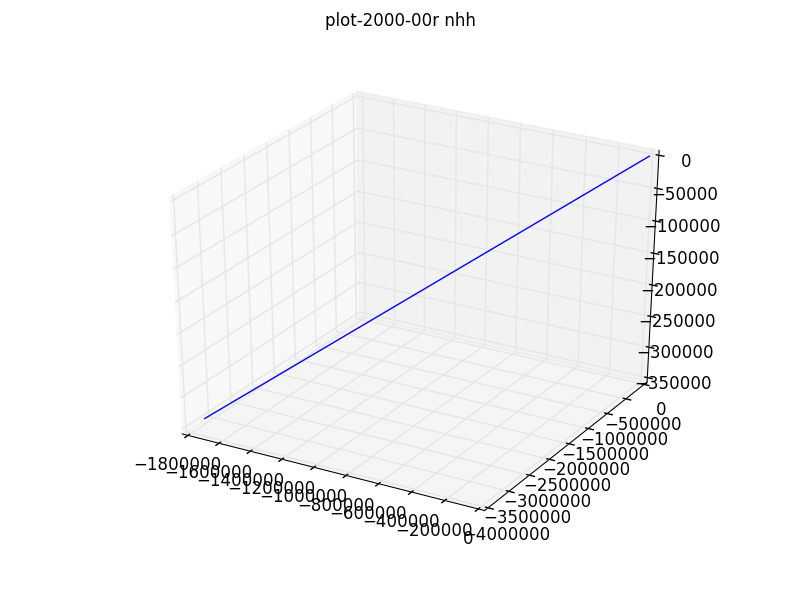
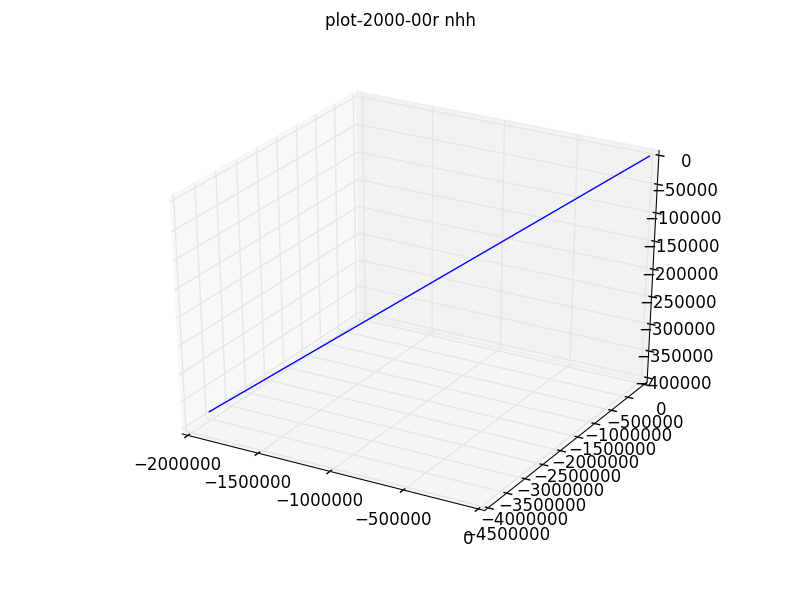
fix acceleration function

diff --git a/code/integrate.py b/code/integrate.py
@@ -70,11 +70,11 @@ for j in range(0,50,10):
     for t in range(1,sample_len):
         # vel_t = vel_t-1 + dt*acc_t
         xleftvel[j][t] = xleftvel[j][t-1] + xleft[j][t]*0.01
-        xleftpos[j][t] = xleftpos[j][t-1] + xleftvel[j][t]*0.01 
+        xleftpos[j][t] = xleftpos[j][t-1] + xleftvel[j][t]*0.01 + xleft[j][t]*0.01*0.01*0.5
         yleftvel[j][t] = yleftvel[j][t-1] + yleft[j][t]*0.01
-        yleftpos[j][t] = yleftpos[j][t-1] + yleftvel[j][t]*0.01 
+        yleftpos[j][t] = yleftpos[j][t-1] + yleftvel[j][t]*0.01 + yleft[j][t]*0.01*0.01*0.5
         zleftvel[j][t] = zleftvel[j][t-1] + zleft[j][t]*0.01
-        zleftpos[j][t] = zleftpos[j][t-1] + zleftvel[j][t]*0.01 
+        zleftpos[j][t] = zleftpos[j][t-1] + zleftvel[j][t]*0.01 + zleft[j][t]*0.01*0.01*0.5
         #yleftvel[j][t] = 0 + yleft[j][t]*0.01
         #yleftpos[j][t] = 0 + yleftvel[j][t]*0.01 + 0.5*yleft[j][t]*0.01*0.01
 
@@ -96,11 +96,11 @@ for j in range(0,50,10):
     zrightpos[j][0] = 0
     for t in range(1,sample_len):
         xrightvel[j][t] = xrightvel[j][t-1] + xright[j][t]*0.01
-        xrightpos[j][t] = xrightpos[j][t-1] + xrightvel[j][t]*0.01 
+        xrightpos[j][t] = xrightpos[j][t-1] + xrightvel[j][t]*0.01 + xright[j][t]*0.01*0.01*0.5
         yrightvel[j][t] = yrightvel[j][t-1] + yright[j][t]*0.01
-        yrightpos[j][t] = yrightpos[j][t-1] + yrightvel[j][t]*0.01 
+        yrightpos[j][t] = yrightpos[j][t-1] + yrightvel[j][t]*0.01 + yright[j][t]*0.01*0.01*0.5
         zrightvel[j][t] = zrightvel[j][t-1] + zright[j][t]*0.01
-        zrightpos[j][t] = zrightpos[j][t-1] + zrightvel[j][t]*0.01 
+        zrightpos[j][t] = zrightpos[j][t-1] + zrightvel[j][t]*0.01 + zright[j][t]*0.01*0.01*0.5
 
     fig = plt.figure()
     hh = "hh"
